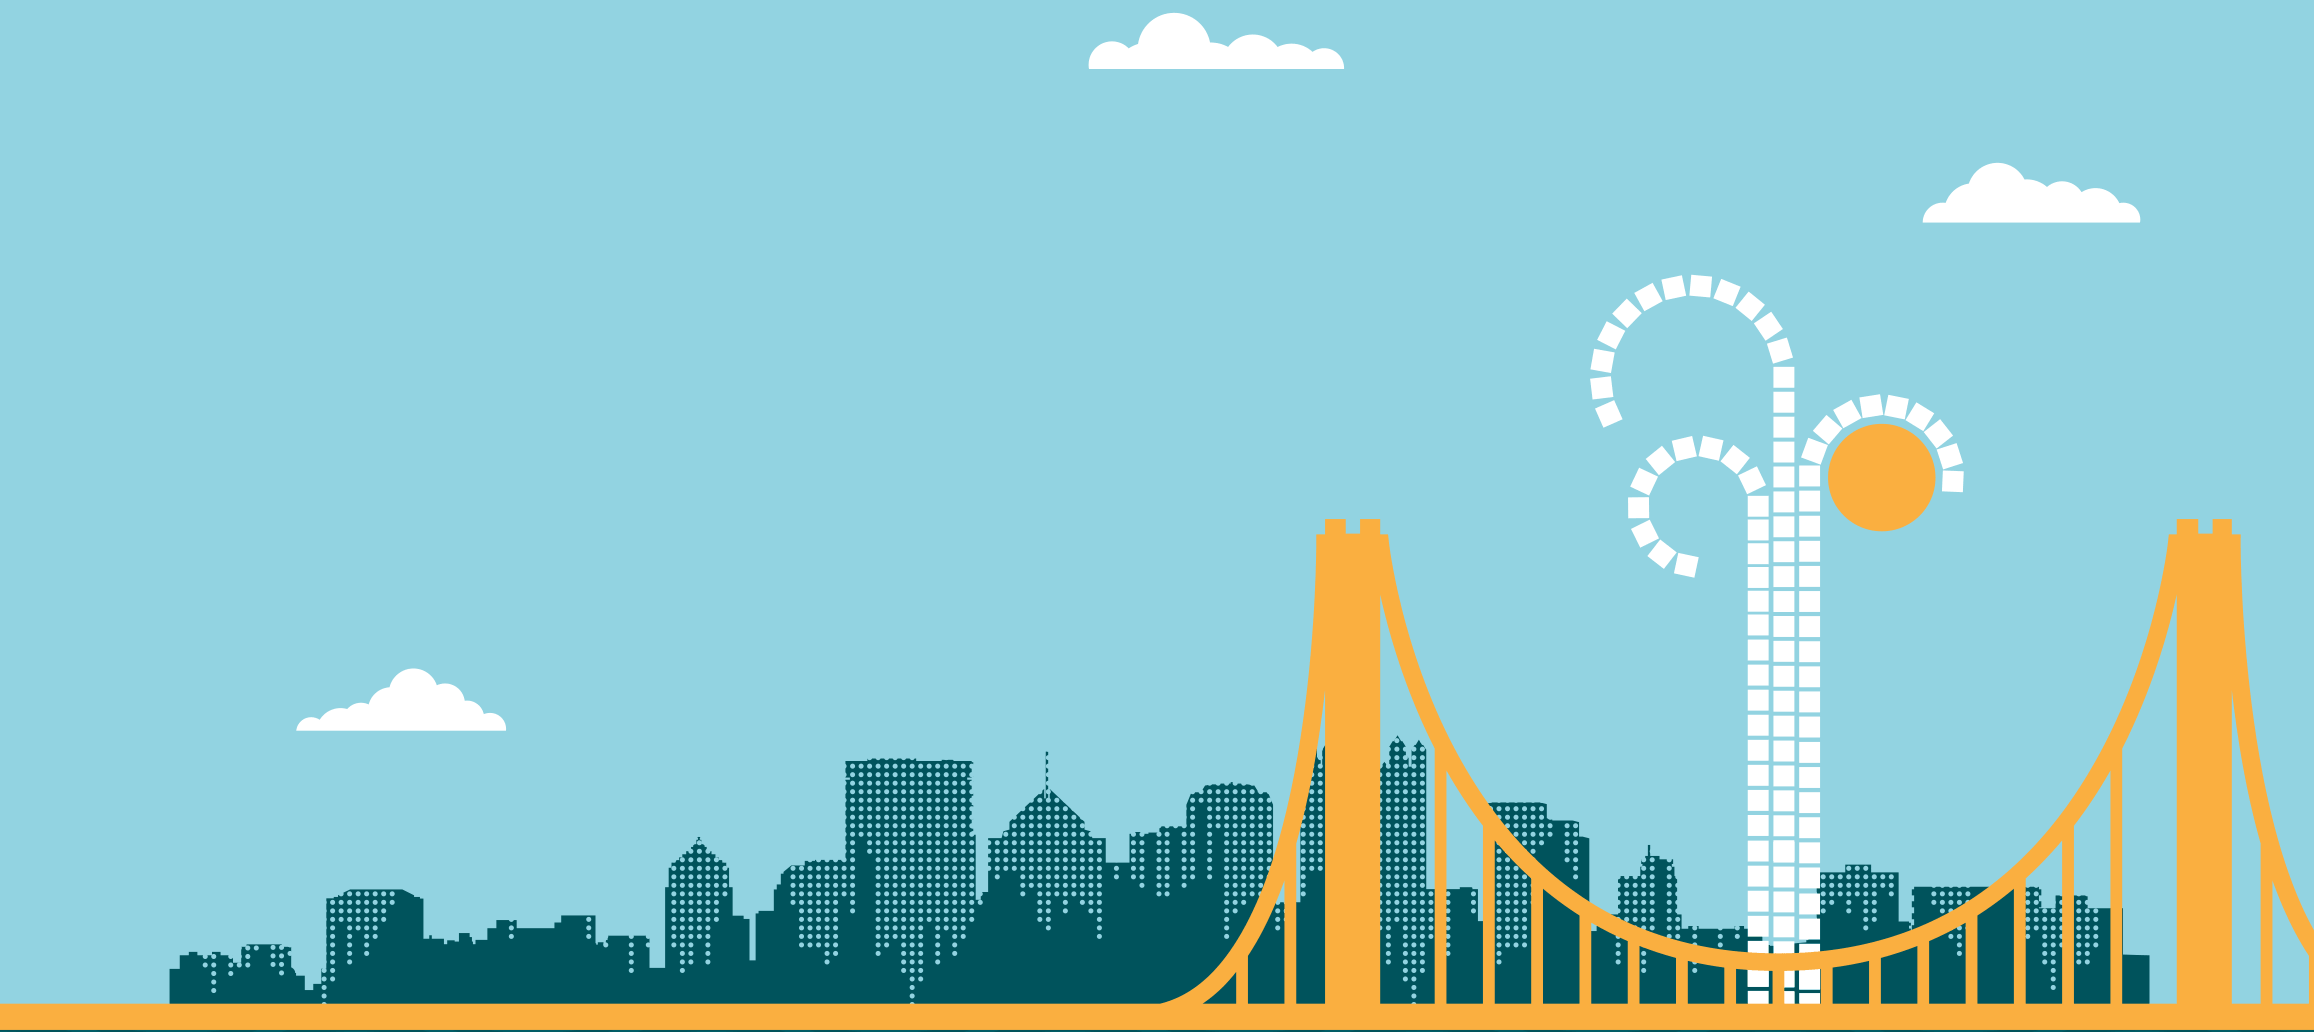
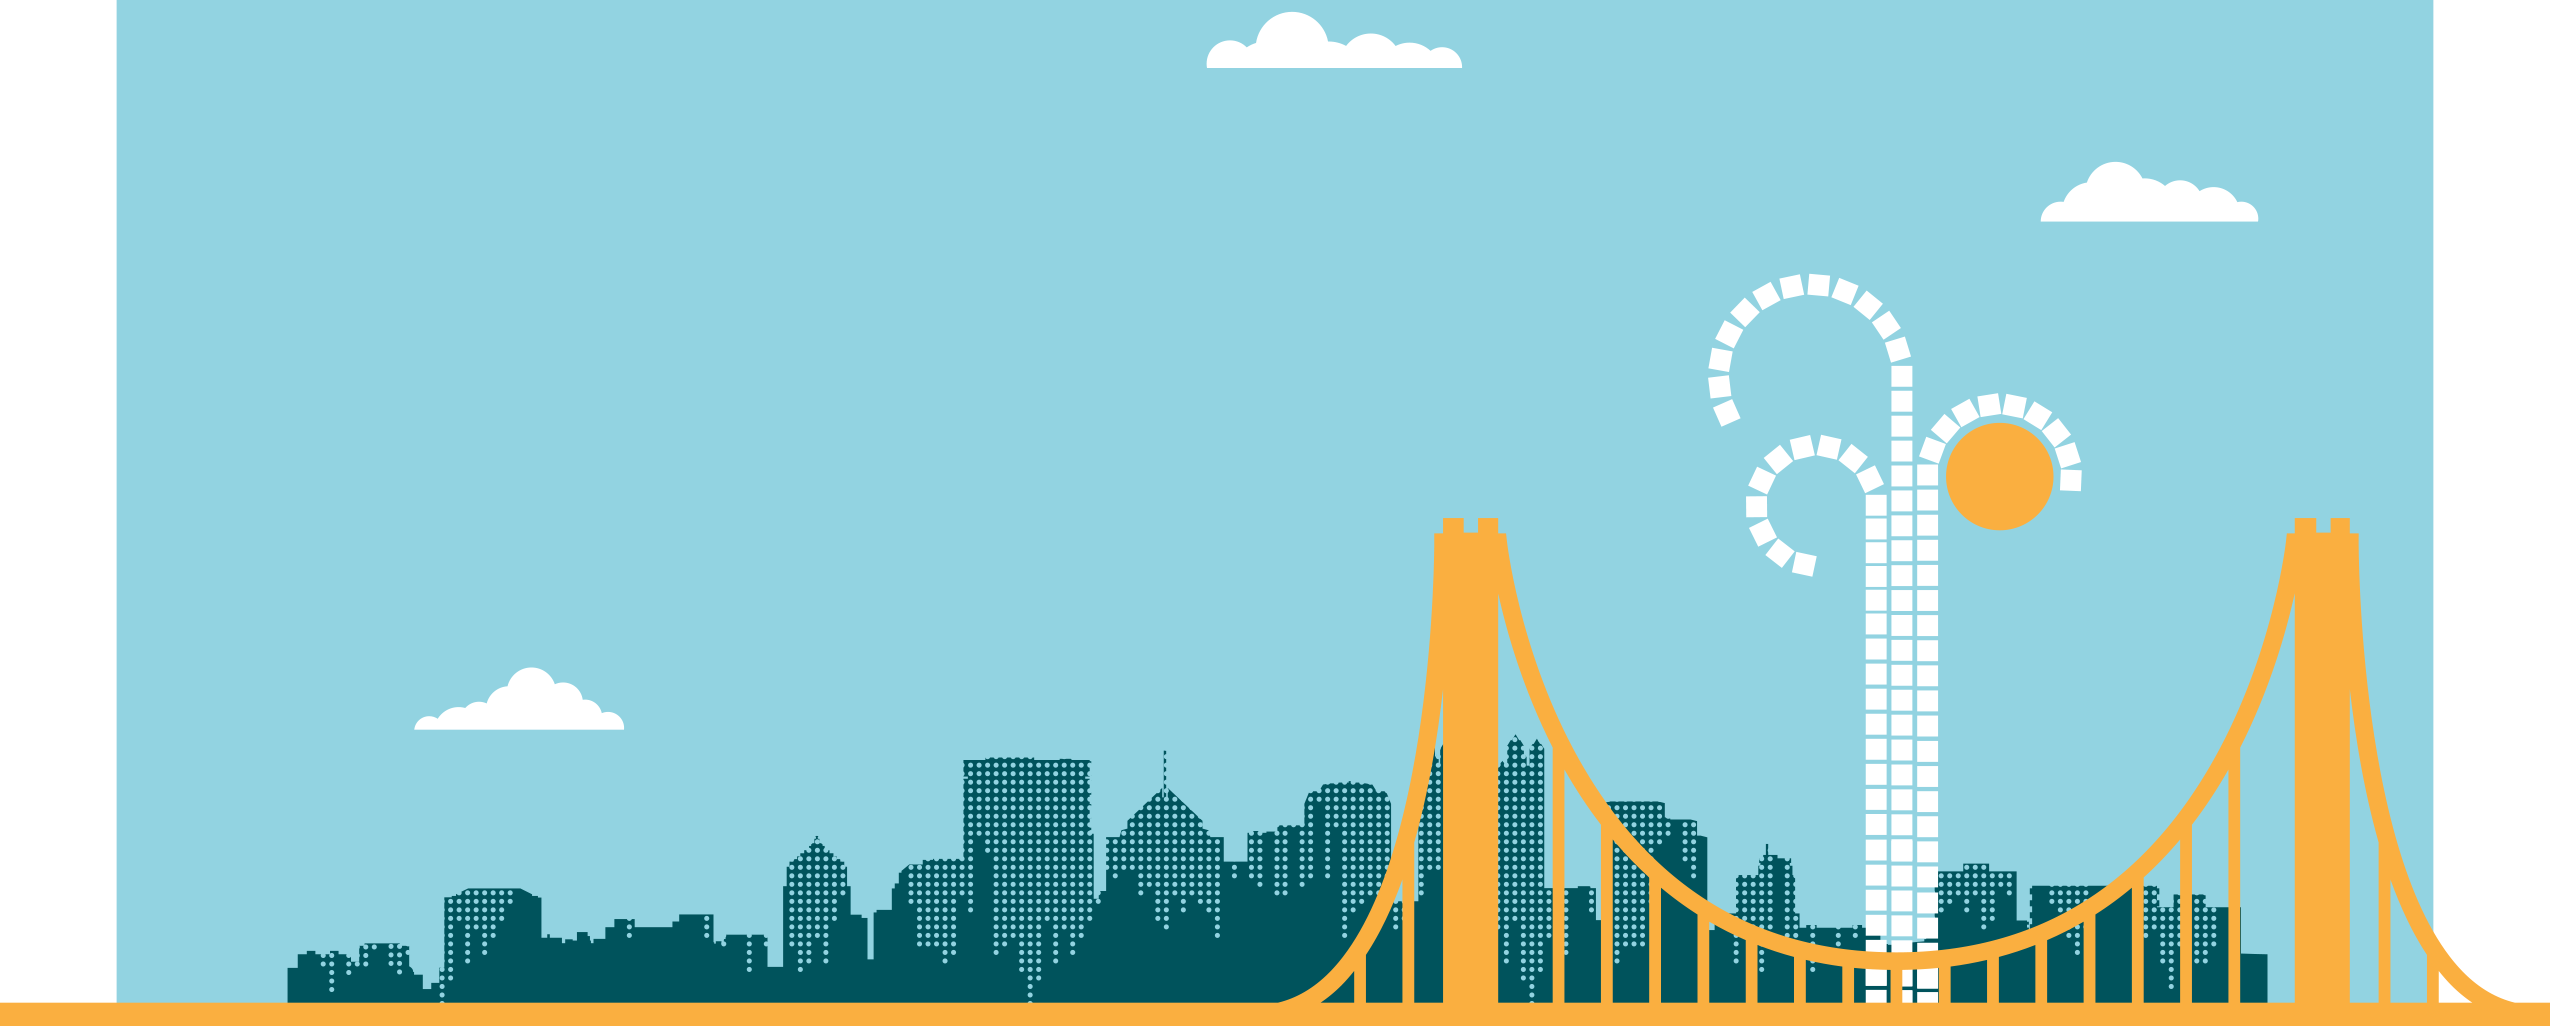
BugzID: 3347 - TRAF Homepage Fixes
Bearded had some good pointers and tips on how to make the background of the homepage more responsive and create more of a visual hierarchy for the intro headlines. I implemented these changes and I think the homepage is way more responsive and looks way better than before.

Changed region(s): [[0.0, 0.0, 1.0, 1.0], [0.1245, 0.655, 0.2489, 0.7173], [0.529, 0.0312, 0.5912, 0.0624]]

diff --git a/app/assets/stylesheets/skins/traf/contexts/_homepage.scss b/app/assets/stylesheets/skins/traf/contexts/_homepage.scss
@@ -3,13 +3,22 @@
     width: 100%;
     max-width: 100%;
     .traf-intro-background {
-      height: 550px;
-      background: url(traf-background.png) no-repeat top center;
-      background-color: $background-color-alt;
-      background-size: cover;
       @include breakpoint($breakpoint-nav) {
-        height: 850px;
+        height: 550px;
+        background-size: 125%;
       }
+      @include breakpoint($breakpoint-xl) {
+        height: 600px;
+        background-size: 100%;
+      }
+      @include breakpoint($breakpoint-xxxl) {
+        height: 660px;
+        background-size: 100%;
+      }
+      background: url(traf-background.png) no-repeat bottom center;
+      background-color: $background-color-alt;
+      height: 420px;
+      background-size: 140%;
     }
   }
 
@@ -17,28 +26,29 @@
     @include container;
     margin-top: -1em;
     width: 95%;
-    padding-top: 5em;
+    @include breakpoint($breakpoint-nav) {
+      padding-top: 5em;
+    }
     .headline {
+      @include heading-6;
       h1 {
-        @include heading-4;
         color: #fff;
       }
     }
     .headline-2 {
-      font-size: 1em;
       @include breakpoint($breakpoint-nav) {
-        @include heading-3;
+        @include heading-4;
       }
     }
     .headline-3 {
-      font-size: 1.5em;
       @include breakpoint($breakpoint-nav) {
-        @include heading-1;
+        @include heading-2;
       }
     }
     .buttons {
       .button-wrapper {
         margin-right: 1em;
+        margin-bottom: .75em;
         .icon-chevron-right {
           height: 15px;
           margin-left: 2em;

diff --git a/app/assets/stylesheets/skins/traf/skin.scss b/app/assets/stylesheets/skins/traf/skin.scss
@@ -20,7 +20,7 @@ $border-color: #cbcdc6;
 
 $background-color: #fff;
 $background-color-subtle: #cbcbcb;
-$background-color-alt: #8AD4DF;
+$background-color-alt: #92D3E1;
 
 $homepage-featured-background: #92D6ED;
 $footer-color: $text-color;
